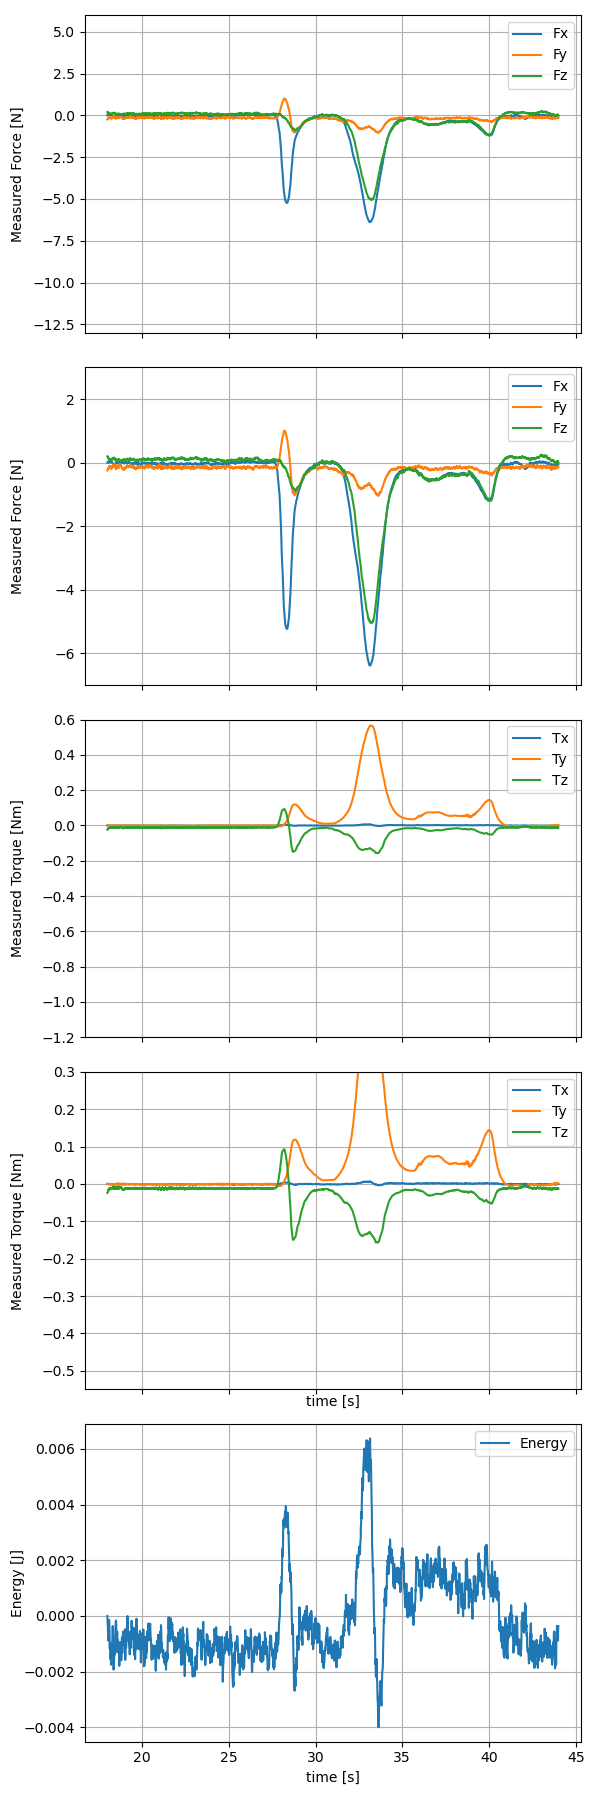
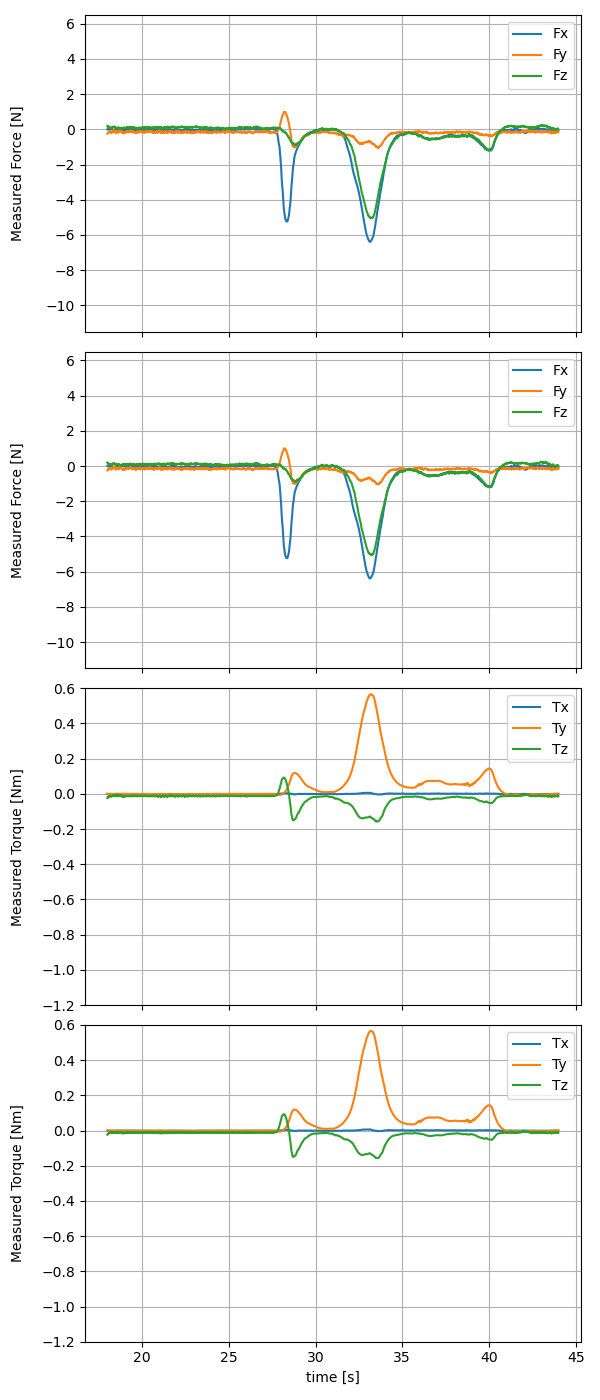
[AIS] [rosbag analysis] some modification

diff --git a/rosbag_analysis/evaluate_beetle_painting_exp.py b/rosbag_analysis/evaluate_beetle_painting_exp.py
@@ -12,21 +12,21 @@ import os
 ###########################################################
 #  ユーザー設定
 ###########################################################
-rosbag_path = "/home/kaneko/mthesis/rosbag/beetle_cleaning/fpv/20251222_201757_without_feedback.bag"   # 手入力
-output_dir  = "/home/kaneko/AIS/MSP-Latex-Template/rosbag_analysis/analyzed_images/beetle_painting/20251222_201757_without_feedback"     # 手入力
+rosbag_path = "/home/kaneko/mthesis/rosbag/beetle_cleaning/fpv/20251222_194249_without_energy.bag"   # 手入力
+output_dir  = "/home/kaneko/AIS/MSP-Latex-Template/rosbag_analysis/analyzed_images/beetle_painting/20251222_194249_without_energy"     # 手入力
 use_feedback_flag = False
 use_energy_flag = False
 # lpf_alpha = 0.05
 lpf_alpha_haptics = 0.1
 
-start_time_sec = 61     # 評価開始時間 [s]
-end_time_sec   = 101    # 評価終了時間 [s]
+start_time_sec = 62     # 評価開始時間 [s]
+end_time_sec   = 102    # 評価終了時間 [s]
 
 contact_force_threshold = 0.5   # [N] 接触判定しきい値（Fx）
 qs_epsilon = 0.2 # 準定常帯域の許容幅 [N]（平均値 ± epsilon）
 
-lpf_cutoff_hz = 3.0          # [Hz] 評価用 LPF（操縦者帯域）
-lpf_cutoff_haptics_hz = 3.0  # [Hz] 触覚提示用（必要なら）
+lpf_cutoff_hz = 3.0          # [Hz] 評価用 LPF
+lpf_cutoff_haptics_hz = 3.0  # [Hz] 触覚提示用
 
 # rosbag のファイル名（拡張子除く）
 bag_filename = os.path.splitext(os.path.basename(rosbag_path))[0]
@@ -438,7 +438,7 @@ plt.figure(figsize=(10,6))
 plt.plot(cfs_times, cfs_wrench_torque[:,0], label="Tx")
 plt.plot(cfs_times, cfs_wrench_torque[:,1], label="Ty")
 plt.plot(cfs_times, cfs_wrench_torque[:,2], label="Tz")
-plt.ylim(-0.25,0.10)
+plt.ylim(-0.15,0.10)
 plt.xlabel("Time [s]")
 plt.ylabel("Torque [Nm]")
 plt.legend()
@@ -478,14 +478,17 @@ if use_feedback_flag:
     plt.savefig(os.path.join(output_dir, f"haptics_torque.png"))
 """
 
-fig, (ax_cfs_force, ax_haptics_force, ax_cfs_torque, ax_haptics_torque, ax_energy) = plt.subplots(
-    5, 1, sharex=True, figsize=(6,18)
+# fig, (ax_cfs_force, ax_haptics_force, ax_cfs_torque, ax_haptics_torque, ax_energy) = plt.subplots(
+#     5, 1, sharex=True, figsize=(6,18)
+# )
+fig, (ax_cfs_force, ax_haptics_force, ax_cfs_torque, ax_haptics_torque) = plt.subplots(
+    4, 1, sharex=True, figsize=(6,14)
 )
 
 ax_cfs_force.plot(cfs_times, cfs_wrench_force[:, 0], label="Fx")
 ax_cfs_force.plot(cfs_times, cfs_wrench_force[:, 1], label="Fy")
 ax_cfs_force.plot(cfs_times, cfs_wrench_force[:, 2], label="Fz")
-ax_cfs_force.set_ylim(-4.0, 2.0)
+ax_cfs_force.set_ylim(-6.0, 2.0)
 ax_cfs_force.set_ylabel("Measured Force [N]")
 ax_cfs_force.yaxis.set_label_coords(-0.12, 0.5)
 ax_cfs_force.grid(True)
@@ -495,7 +498,7 @@ if use_feedback_flag:
     ax_haptics_force.plot(haptics_times, -haptics_force[:, 0], label="Fx")
     ax_haptics_force.plot(haptics_times, -haptics_force[:, 1], label="Fy")
     ax_haptics_force.plot(haptics_times, haptics_force[:, 2], label="Fz")
-    ax_haptics_force.set_ylim(-8.0, 3.0)
+    ax_haptics_force.set_ylim(-6.0, 2.0)
     ax_haptics_force.set_ylabel("Feedback Force [N]")
     ax_haptics_force.yaxis.set_label_coords(-0.12, 0.5)
     ax_haptics_force.grid(True)
@@ -504,7 +507,7 @@ else:
     ax_haptics_force.plot(cfs_times, cfs_wrench_force[:, 0], label="Fx")
     ax_haptics_force.plot(cfs_times, cfs_wrench_force[:, 1], label="Fy")
     ax_haptics_force.plot(cfs_times, cfs_wrench_force[:, 2], label="Fz")
-    ax_haptics_force.set_ylim(-4.0, 2.0)
+    ax_haptics_force.set_ylim(-6.0, 2.0)
     ax_haptics_force.set_ylabel("Measured Force [N]")
     ax_haptics_force.yaxis.set_label_coords(-0.12, 0.5)
     ax_haptics_force.grid(True)
@@ -523,7 +526,7 @@ if use_feedback_flag:
     ax_haptics_torque.plot(haptics_times, haptics_torque[:, 0], label="Tx")
     ax_haptics_torque.plot(haptics_times, haptics_torque[:, 1], label="Ty")
     ax_haptics_torque.plot(haptics_times, haptics_torque[:, 2], label="Tz")
-    ax_haptics_torque.set_ylim(-1.2, 1.2)
+    ax_haptics_torque.set_ylim(-0.25, 0.10)
     # ax_haptics_torque.set_xlabel("time [s]")
     ax_haptics_torque.set_ylabel("Feedback Torque [Nm]")
     ax_haptics_torque.yaxis.set_label_coords(-0.12, 0.5)
@@ -540,20 +543,20 @@ else:
     ax_haptics_torque.grid(True)
     ax_haptics_torque.legend()
 
-if use_energy_flag:
-    ax_energy.plot(debug_times, energy, label="Energy")
-    ax_energy.set_xlabel("time [s]")
-    ax_energy.set_ylabel("Energy [J]")
-    ax_energy.yaxis.set_label_coords(-0.12, 0.5)
-    ax_energy.grid(True)
-    ax_energy.legend()
-else:
-    ax_energy.plot(cfs_times, cfs_wrench_torque[:, 0], label="Energy")
-    ax_energy.set_xlabel("time [s]")
-    ax_energy.set_ylabel("Energy [J]")
-    ax_energy.yaxis.set_label_coords(-0.12, 0.5)
-    ax_energy.grid(True)
-    ax_energy.legend()
+# if use_energy_flag:
+#     ax_energy.plot(debug_times, energy, label="Energy")
+#     ax_energy.set_xlabel("time [s]")
+#     ax_energy.set_ylabel("Energy [J]")
+#     ax_energy.yaxis.set_label_coords(-0.12, 0.5)
+#     ax_energy.grid(True)
+#     ax_energy.legend()
+# else:
+#     ax_energy.plot(cfs_times, cfs_wrench_torque[:, 0], label="Energy")
+#     ax_energy.set_xlabel("time [s]")
+#     ax_energy.set_ylabel("Energy [J]")
+#     ax_energy.yaxis.set_label_coords(-0.12, 0.5)
+#     ax_energy.grid(True)
+#     ax_energy.legend()
   
 
 

diff --git a/rosbag_analysis/evaluate_me6_painting_exp.py b/rosbag_analysis/evaluate_me6_painting_exp.py
@@ -423,14 +423,18 @@ def main():
         plt.savefig(os.path.join(OUTPUT_DIR, f"haptics_torque.png"))
     """
 
-    fig, (ax_cfs_force, ax_haptics_force, ax_cfs_torque, ax_haptics_torque, ax_energy) = plt.subplots(
-        5, 1, sharex=True, figsize=(6,18)
+    # fig, (ax_cfs_force, ax_haptics_force, ax_cfs_torque, ax_haptics_torque, ax_energy) = plt.subplots(
+    #     5, 1, sharex=True, figsize=(6,18)
+    # )
+
+    fig, (ax_cfs_force, ax_haptics_force, ax_cfs_torque, ax_haptics_torque) = plt.subplots(
+        4, 1, sharex=True, figsize=(6,14)
     )
 
     ax_cfs_force.plot(cfs_times, cfs_force[:, 0], label="Fx")
     ax_cfs_force.plot(cfs_times, cfs_force[:, 1], label="Fy")
     ax_cfs_force.plot(cfs_times, cfs_force[:, 2], label="Fz")
-    ax_cfs_force.set_ylim(-13.0, 6.0)
+    ax_cfs_force.set_ylim(-11.5, 6.5)
     ax_cfs_force.set_ylabel("Measured Force [N]")
     ax_cfs_force.yaxis.set_label_coords(-0.12, 0.5)
     ax_cfs_force.grid(True)
@@ -440,7 +444,7 @@ def main():
         ax_haptics_force.plot(haptics_times, haptics_force[:, 0], label="Fx")
         ax_haptics_force.plot(haptics_times, haptics_force[:, 1], label="Fy")
         ax_haptics_force.plot(haptics_times, haptics_force[:, 2], label="Fz")
-        ax_haptics_force.set_ylim(-7.0, 3.0)
+        ax_haptics_force.set_ylim(-11.5, 6.5)
         ax_haptics_force.set_ylabel("Feedback Force [N]")
         ax_haptics_force.yaxis.set_label_coords(-0.12, 0.5)
         ax_haptics_force.grid(True)
@@ -449,7 +453,7 @@ def main():
         ax_haptics_force.plot(cfs_times, cfs_force[:, 0], label="Fx")
         ax_haptics_force.plot(cfs_times, cfs_force[:, 1], label="Fy")
         ax_haptics_force.plot(cfs_times, cfs_force[:, 2], label="Fz")
-        ax_haptics_force.set_ylim(-7.0, 3.0)
+        ax_haptics_force.set_ylim(-11.5, 6.5)
         ax_haptics_force.set_ylabel("Measured Force [N]")
         ax_haptics_force.yaxis.set_label_coords(-0.12, 0.5)
         ax_haptics_force.grid(True)
@@ -468,7 +472,7 @@ def main():
         ax_haptics_torque.plot(haptics_times, haptics_torque[:, 0], label="Tx")
         ax_haptics_torque.plot(haptics_times, haptics_torque[:, 1], label="Ty")
         ax_haptics_torque.plot(haptics_times, haptics_torque[:, 2], label="Tz")
-        ax_haptics_torque.set_ylim(-0.55, 0.3)
+        ax_haptics_torque.set_ylim(-1.2, 0.6)
         ax_haptics_torque.set_xlabel("time [s]")
         ax_haptics_torque.set_ylabel("Feedback Torque [Nm]")
         ax_haptics_torque.yaxis.set_label_coords(-0.12, 0.5)
@@ -478,27 +482,27 @@ def main():
         ax_haptics_torque.plot(cfs_times, cfs_torque[:, 0], label="Tx")
         ax_haptics_torque.plot(cfs_times, cfs_torque[:, 1], label="Ty")
         ax_haptics_torque.plot(cfs_times, cfs_torque[:, 2], label="Tz")
-        ax_haptics_torque.set_ylim(-0.55, 0.3)
+        ax_haptics_torque.set_ylim(-1.2, 0.6)
         ax_haptics_torque.set_xlabel("time [s]")
         ax_haptics_torque.set_ylabel("Measured Torque [Nm]")
         ax_haptics_torque.yaxis.set_label_coords(-0.12, 0.5)
         ax_haptics_torque.grid(True)
         ax_haptics_torque.legend()
 
-    if use_energy_flag:
-        ax_energy.plot(debug_times, energy, label="Energy")
-        ax_energy.set_xlabel("time [s]")
-        ax_energy.set_ylabel("Energy [J]")
-        ax_energy.yaxis.set_label_coords(-0.12, 0.5)
-        ax_energy.grid(True)
-        ax_energy.legend()
-    else:
-        ax_energy.plot(cfs_times, cfs_torque[:, 0], label="Energy")
-        ax_energy.set_xlabel("time [s]")
-        ax_energy.set_ylabel("Energy [J]")
-        ax_energy.yaxis.set_label_coords(-0.12, 0.5)
-        ax_energy.grid(True)
-        ax_energy.legend()
+    # if use_energy_flag:
+    #     ax_energy.plot(debug_times, energy, label="Energy")
+    #     ax_energy.set_xlabel("time [s]")
+    #     ax_energy.set_ylabel("Energy [J]")
+    #     ax_energy.yaxis.set_label_coords(-0.12, 0.5)
+    #     ax_energy.grid(True)
+    #     ax_energy.legend()
+    # else:
+    #     ax_energy.plot(cfs_times, cfs_torque[:, 0], label="Energy")
+    #     ax_energy.set_xlabel("time [s]")
+    #     ax_energy.set_ylabel("Energy [J]")
+    #     ax_energy.yaxis.set_label_coords(-0.12, 0.5)
+    #     ax_energy.grid(True)
+    #     ax_energy.legend()
 
     plt.tight_layout()
     plt.savefig(os.path.join(OUTPUT_DIR, "wrench_all_plot.png"))
